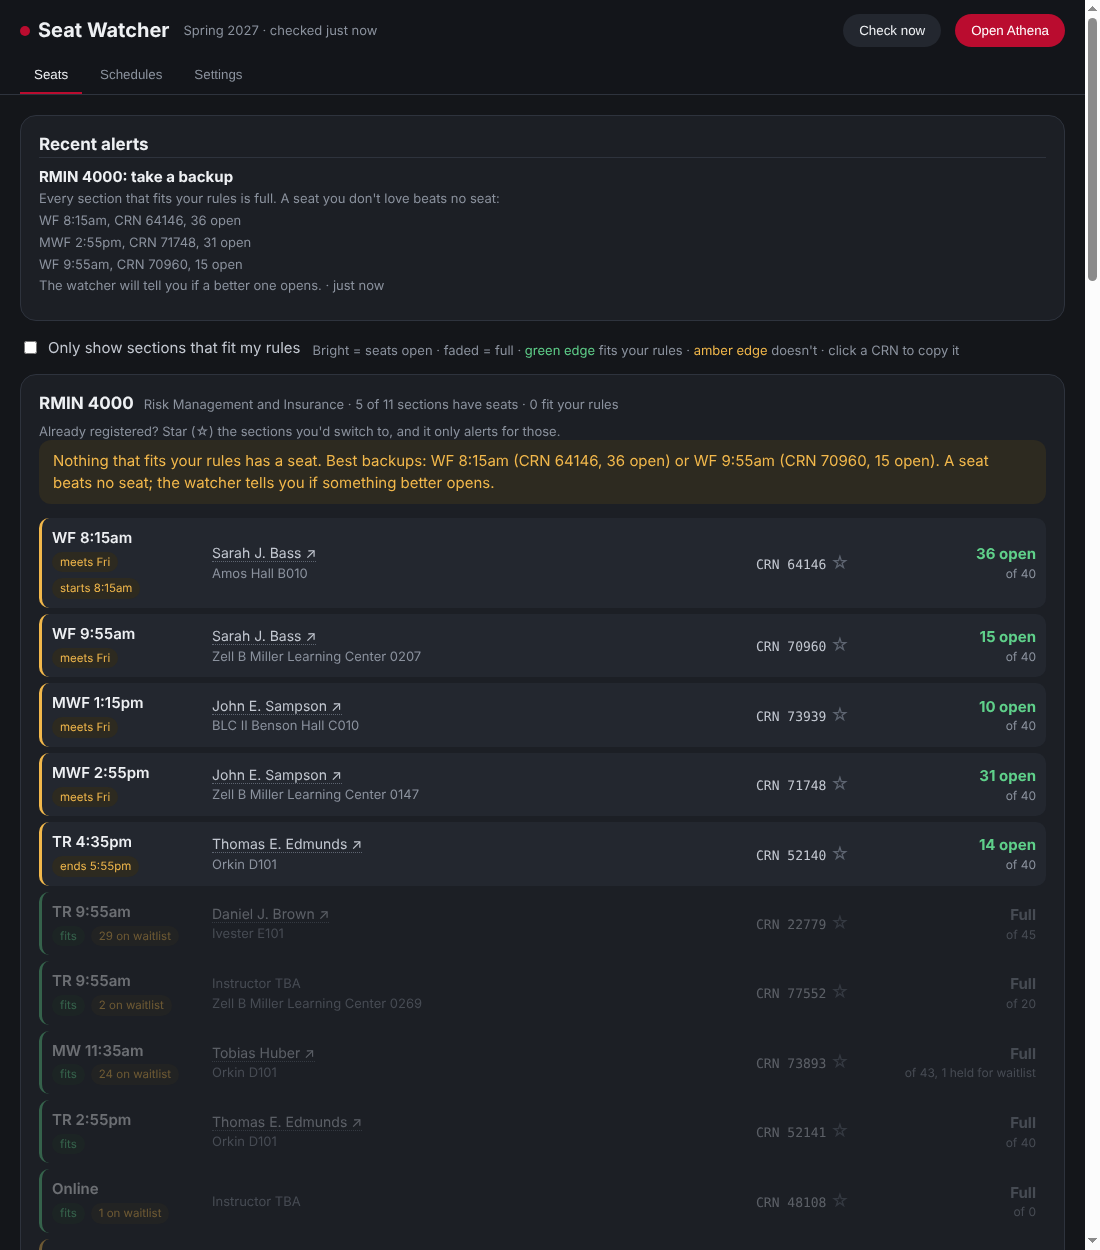
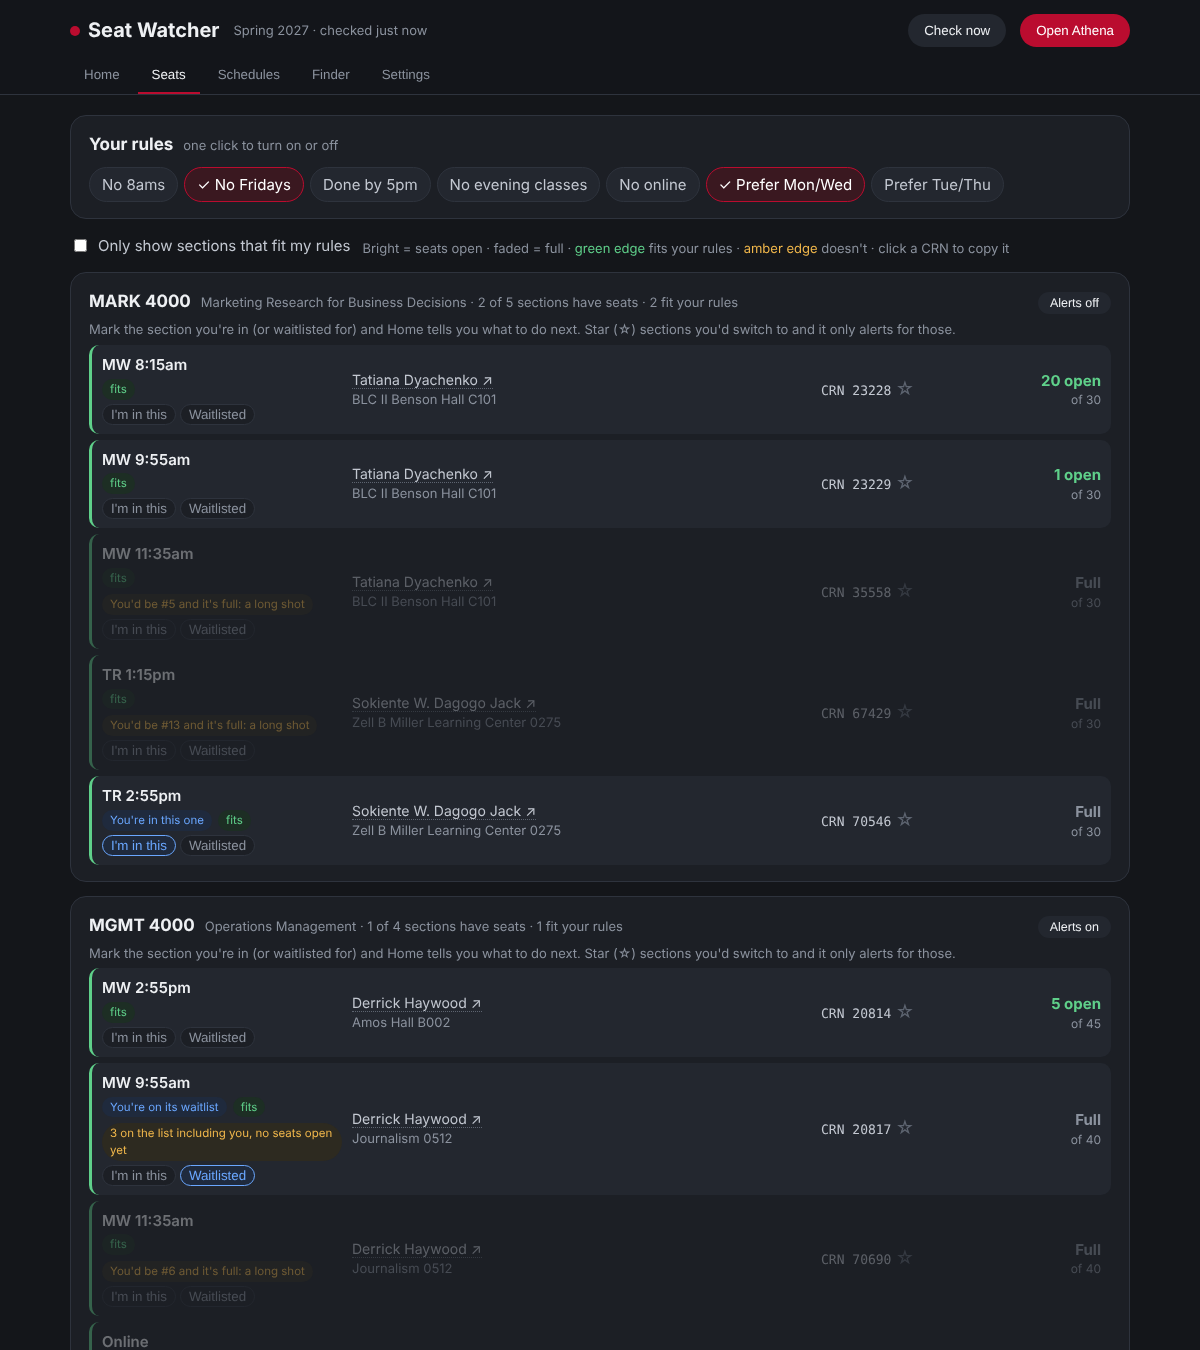
Docs and screenshots for Home, Finder, the extension and MCP; long shots rank last
Claude-Session: https://claude.ai/code/session_015J5cNBhjYe8LtE2kW4Kppf

diff --git a/extension/content.js b/extension/content.js
@@ -209,7 +209,7 @@
         const risk = s && (s.waiting > 0 || s.seats <= 0);
         box.append(
           risk
-            ? `${s.waiting ? `${s.waiting} people are waiting for it, so your seat goes to them` : "It's full, so your seat goes to whoever grabs it"} and you likely can't get back in. To switch sections, add the new CRN first and drop this one in the same submit.`
+            ? `${s.waiting ? `${s.waiting} ${s.waiting === 1 ? 'person is' : 'people are'} waiting for it, so your seat goes to them` : "It's full, so your seat goes to whoever grabs it"} and you likely can't get back in. To switch sections, add the new CRN first and drop this one in the same submit.`
             : 'To switch sections, add the new CRN first and drop this one in the same submit, so you never end up with neither.',
         );
       }

diff --git a/web/index.html b/web/index.html
@@ -99,6 +99,7 @@ input[type=text],input[type=number],select{background:var(--panel2);color:var(--
 .move{background:var(--panel2);border-radius:12px;padding:12px 14px;margin-top:10px;border-left:3px solid var(--blue)}
 .move.k0{border-left-color:var(--green)}.move.k2{border-left-color:var(--faint)}
 .move b{display:block;font-size:15px}
+.move .btn.alt{background:var(--panel);border:1px solid var(--line)}
 .move p{margin:4px 0 0;color:var(--soft);font-size:14px}
 .move ol{margin:8px 0 0;padding-left:20px;color:var(--soft);font-size:13.5px}
 .move ol li{margin:2px 0}

diff --git a/README.md b/README.md
@@ -1,15 +1,25 @@
 # UGA Seat Watcher
 
-Tells you when a seat opens in a UGA class that fits your schedule, and builds possible weekly
-schedules out of what's open right now. Runs on your own laptop, Windows or Mac.
+Tells you what to do next in UGA registration: when a seat opens in a class that fits your week,
+which waitlist you'd actually get off of, and how to switch sections without losing your seat.
+Builds possible weekly schedules from what's open, and finds open electives. Runs on your own
+laptop, Windows or Mac.
 
-![Seats tab](docs/seats.png)
+![Home tab](docs/home.png)
 
 - **No UGA login, no Duo.** It reads Athena's public "Browse Classes" search, the same one anyone
   can use without signing in.
+- **Your week and your next move.** Mark the section you're in (or waitlisted for) and Home shows
+  your week and exactly what to do, step by step in Athena's words: register now, switch sections
+  in one submit, move your waitlist spot, or hold.
+- **Waitlist odds.** "You'd be #17 for 17 seats: likely" vs "#55 for 1 seat: a long shot". You can
+  only be on one waitlist per course, so it helps you pick the line.
+- **Never lose a seat by accident.** It never tells you to drop first, and the Chrome extension
+  warns you in Athena if you're about to drop a class with people waiting for your seat.
 - **Only real seats count.** While anyone is on a section's waitlist, Athena holds every open seat
   for them, so a section only counts as open when nobody is waiting.
-- **Your rules.** Earliest start, latest end, days to skip, days you prefer, online or not.
+- **Your rules, one click each.** No 8ams, No Fridays, Done by 5pm, Prefer Mon/Wed and more. None
+  are on until you pick them, and one click turns each off again.
 - **Backups.** A seat you don't love beats no seat. If everything that fits is full, it tells you
   which sections still have room.
 - **Switch mode.** Already registered? Star the sections you'd rather have and it only alerts for
@@ -17,7 +27,14 @@ schedules out of what's open right now. Runs on your own laptop, Windows or Mac.
 - **Schedules.** Every combination of open sections with no time clashes, ranked by fewest days on
   campus, no early mornings, no late classes and no long gaps. One click copies the CRNs.
 - **Alerts** on your desktop, and on your phone through the free ntfy app or Discord.
+- **Finder.** Search every section this term for an open class that fits around your week: level,
+  online or in person, days, times, subjects to leave out. Good for electives.
+- **Seat history.** When a full section reopens, it shows when.
+- **Key dates.** A countdown to waitlists clearing and drop/add.
+- **Tight walks.** Flags back-to-back classes on opposite sides of campus.
 - **Rate My Professors** link on every instructor's name.
+- **Chrome extension and Claude.** Optional: color Athena's own pages, and ask Claude about your
+  schedule. See below.
 
 It never registers you for anything. It tells you, and you register in Athena yourself.
 
@@ -35,8 +52,12 @@ It never registers you for anything. It tells you, and you register in Athena yo
    - **Windows:** `Start Here (Windows).cmd`. If Windows warns you, click "More info" then
      "Run anyway".
    - **Mac:** right-click `Start Here (Mac).command`, choose Open, then Open again.
-4. **Setup opens in your browser.** Pick the term, add your courses, set your rules and turn on
-   phone alerts if you want them. Leave "run in the background" checked.
+4. **Setup opens in your browser.** Pick the term, add your courses (by course code, like
+   BUSN 4000, straight off your advising sheet), pick any rules you care about, and turn on phone
+   alerts if you want them. Leave "run in the background" checked.
+5. **Tell it what you have.** On the Seats tab, tap **I'm in this** on each section you're
+   registered in, or **Waitlisted** on the one you're waiting for. (The Chrome extension can do this
+   for you from Athena.) Now Home can plan around your real week.
 
 ![Setup](docs/setup.png)
 
@@ -45,16 +66,56 @@ launcher again any time to open it. On Windows it's also in the Start menu as "S
 
 ## Using it
 
-- **Seats:** every section of your courses. Bright means seats are open, faded means full. A green
-  edge means it fits your rules; an amber edge says why it doesn't ("meets Fri", "starts 8:15am").
-  Click a CRN to copy it, click an instructor for Rate My Professors, and star (☆) a section to
-  switch that course to "only tell me about these."
-- **Schedules:** possible weeks built from open seats. Uncheck "only sections that fit my rules" to
-  see weeks that use backups.
-- **Settings:** change anything from setup. Saved changes apply right away. To start setup over,
-  delete `config.json` and run the launcher again.
+- **Home:** your week (dashed means waitlisted), what to do next with the exact Athena steps, key
+  dates, and your rules as one-click chips.
+- **Seats:** every section of your courses. Bright means you can register now, faded means full. A
+  green edge means it fits your rules; an amber edge says why it doesn't ("meets Fri", "starts
+  8:15am"). Each section shows your waitlist odds and, if it was full and reopened, when. Mark your
+  own sections here. Star (☆) a section to switch that course to "only tell me about these". Turn a
+  course's alerts off when you're happy with it; it keeps checking so your week stays current.
+- **Schedules:** possible weeks built from open seats plus the sections you hold, with how many
+  changes each one takes from your week.
+- **Finder:** any open class that fits around your week. Your degree decides what counts, and you
+  should check prerequisites in the UGA Bulletin before registering.
+- **Settings:** change anything from setup. To start setup over, delete `config.json` and run the
+  launcher again.
+
+**Switching sections, the safe way:** add the new CRN and drop the old one in the same submit. If
+the old section has people waiting and you drop it first, your seat goes to them and you can't get
+back in. Seat Watcher's steps always do it the safe way.
+
+![Seats tab](docs/seats.png)
 
 ![Schedules tab](docs/schedules.png)
+
+![Finder tab](docs/finder.png)
+
+## Chrome extension (optional)
+
+Works on Athena's Register for Classes page while Seat Watcher runs: colors search results (fits,
+waitlist only with your odds, full, yours), syncs your Registered and Waitlisted classes into Seat
+Watcher, warns before a risky drop, and can put your next CRN in the Enter CRNs box. It never
+clicks Submit and never sees your password.
+
+![Extension on a copy of Athena's page](docs/extension.png)
+
+*Shown on a test copy of Athena's page, which is why Athena's own styling is missing.*
+
+Install: in Chrome go to `chrome://extensions`, turn on **Developer mode**, click **Load unpacked**,
+and pick the `extension` folder. Details in [extension/README.md](extension/README.md).
+
+## Ask Claude about your schedule (optional)
+
+`mcp.mjs` connects Seat Watcher to Claude through MCP (the connector format Claude uses for tools),
+so you can ask things like "what should I do about RMIN?" or "find me an open online upper-level
+class that fits my week". It talks to the Seat Watcher running on your computer and never registers
+anything.
+
+- **Claude Code:** `claude mcp add uga-seat-watcher -- node "/full/path/to/uga-seat-watcher/mcp.mjs"`
+- **Claude Desktop:** Settings > Developer > Edit Config, and add inside `"mcpServers"`:
+  `"uga-seat-watcher": { "command": "node", "args": ["/full/path/to/uga-seat-watcher/mcp.mjs"] }`,
+  then restart Claude Desktop. On Windows, write the path with double backslashes
+  (`C:\\Users\\you\\uga-seat-watcher\\mcp.mjs`).
 
 ## Phone alerts
 
@@ -95,6 +156,9 @@ knowing the project. `AGENTS.md` points other agents to the same file.
 | No desktop alerts on Mac | System Settings > Notifications > Script Editor > Allow. |
 | Stops working after a Mac restart | The folder is in Desktop, Documents or Downloads. Move it to your home folder and run the launcher again. |
 | Says a section is full but Athena shows seats | Someone is on the waitlist, so Athena holds every open seat for the waitlist. Join it, or wait for it to clear. |
+| Home says "Mark the sections you have" | Tap **I'm in this** or **Waitlisted** on the Seats tab, or open your Summary in Athena with the extension installed. |
+| The extension panel says "not running" | Start Seat Watcher with the launcher. If you changed its port, set the same port in the extension's popup. |
+| Finder says it's downloading | The first search of the day pulls the whole term from Athena, slowly on purpose. Give it about a minute. |
 | Nothing at all | Check the log: `%LOCALAPPDATA%\uga-seat-watcher\watcher.log` on Windows, `~/Library/Application Support/uga-seat-watcher/watcher.log` on Mac. |
 
 ## Commands
@@ -109,12 +173,14 @@ Run these from the project folder.
 | `node watcher.mjs --test` | Send a test alert |
 | `node watcher.mjs --install` | Start automatically at login |
 | `node watcher.mjs --uninstall` | Stop starting at login, and stop it now |
-| `npm test` | Offline tests for the rules and schedule builder |
+| `node mcp.mjs` | The MCP server for Claude (Claude starts this for you) |
+| `npm test` | Offline tests: rules, schedules, advice, finder |
 
 ## Be nice to Athena
 
 One search per course every few minutes is nothing. Please don't set it below 2 minutes, and don't
-run several copies. If a lot of people hammer Athena, UGA will block it for everyone.
+run several copies. The Finder downloads the whole term at most once every 6 hours, only when you
+use it. If a lot of people hammer Athena, UGA will block it for everyone.
 
 ## Other schools
 

diff --git a/CLAUDE.md b/CLAUDE.md
@@ -11,7 +11,12 @@ before you say something works.
   install it by unzipping a folder. Don't add packages unless there's truly no other way, and ask
   first.
 - One process does everything: checks Athena every few minutes, keeps a little state, sends alerts,
-  and serves a dashboard on `http://127.0.0.1:4830` (only this computer can open it).
+  and serves a dashboard on `http://127.0.0.1:4830` (only this computer can open it). The MCP server
+  (`mcp.mjs`) and the Chrome extension (`extension/`) are thin clients of that dashboard's JSON API;
+  they never talk to Athena themselves.
+- Each course in `config.json` can hold `registered` and `waitlisted` CRNs (the student's own
+  sections). `enabled` means **alerts on**. Courses with a held section are checked even with alerts
+  off, so the week on Home stays current.
 - Setup happens in that dashboard the first time (no `config.json` yet). Settings are saved to
   `config.json` in this folder and re-read on every check.
 - It never logs in to Athena and never registers anyone for anything. That's a hard line; see
@@ -22,15 +27,21 @@ before you say something works.
 | File | What it does |
 |---|---|
 | `watcher.mjs` | Entry point and command line (`--open`, `--once`, `find`, `--test`, `--install`, `--uninstall`). Starts the dashboard and the check loop, and hands off to the background service after setup. |
-| `src/athena.mjs` | Talks to Athena's public Browse Classes search. Turns Athena's JSON into our section shape (`toSection`). |
+| `src/athena.mjs` | Talks to Athena's public Browse Classes search. Turns Athena's JSON into our section shape (`toSection`), un-escaping Athena's HTML entities. |
+| `src/advice.mjs` | Your week and next moves (`advise`), waitlist odds (`waitlistOdds`). The UGA registration rules live in its header comment. |
+| `src/finder.mjs` | The elective finder: whole-term cache (`loadTerm`, at most every 6 hours, only on demand) and filters (`find`). |
+| `src/campus.mjs` | Rough walking times between campus zones, for tight-walk warnings. Unknown buildings never warn. |
+| `src/dates.mjs` | Key registration dates per term (waitlist purge, drop/add). Add each new term here. |
+| `mcp.mjs` | MCP server (stdio, hand-rolled JSON-RPC) for Claude: my_week, course_sections, find_classes, possible_schedules, set_my_section, seat_history. Calls the dashboard API. |
+| `extension/` | Chrome extension (MV3): colors Athena results, syncs the Summary panel to `/api/import`, warns before risky drops, fills CRNs. Reads tables by header text. Never clicks Submit. |
 | `src/rules.mjs` | Does a section fit the person's rules (`check`, returns `{ fits, why }`), time formatting, and backup alerts (`backupNotice`). |
 | `src/schedule.mjs` | Builds clash-free weekly schedules from open sections and ranks them (`buildSchedules`, `score`). |
 | `src/core.mjs` | One check: fetch every course, mark fits, compare with the last check, alert. Holds the live `status` the dashboard reads. |
-| `src/server.mjs` | The dashboard's HTTP server and JSON API (`/api/state`, `/api/schedules`, `/api/config`, `/api/setup`, `/api/course`, `/api/terms`, `/api/check`, `/api/test-alert`). |
+| `src/server.mjs` | The dashboard's HTTP server and JSON API (`/api/state`, `/api/week`, `/api/schedules`, `/api/lookup`, `/api/held`, `/api/import`, `/api/finder`, `/api/history`, `/api/config`, `/api/setup`, `/api/course`, `/api/terms`, `/api/check`, `/api/test-alert`). Rejects requests whose Origin is another website. |
 | `src/notify.mjs` | Alerts: Windows toast (PowerShell), Mac notification (osascript), Linux notify-send, ntfy, Discord webhook. |
 | `src/service.mjs` | Start at login: Windows Task Scheduler task "UGA Seat Watcher" (runs `scripts/run-windows.ps1`), Mac launchd agent `com.ugaseatwatcher.agent`. |
 | `src/config.mjs` | Defaults, `validate` (every saved config goes through it), load and save. |
-| `src/paths.mjs` | Where the log and state live (`%LOCALAPPDATA%\uga-seat-watcher` or `~/Library/Application Support/uga-seat-watcher`), plus `log`. |
+| `src/paths.mjs` | Where the log, state, seat history (`history.jsonl`) and term cache live (`%LOCALAPPDATA%\uga-seat-watcher` or `~/Library/Application Support/uga-seat-watcher`), plus `log`. |
 | `web/index.html` | The whole dashboard and setup wizard: one file, vanilla JS, no framework. |
 | `test/` | Offline tests (`npm test`). They never touch the network. |
 
@@ -39,10 +50,11 @@ before you say something works.
 Everything downstream uses what `toSection` returns:
 
 ```js
-{ crn: '73893', course: 'RMIN 4000', title, credits,
+{ crn: '73893', course: 'RMIN 4000', title, credits, subject, number, campus, part_of_term,
   meetings: [{ days: 'MW', begin: '1135', end: '1250', building, room }],
   days, begin, end,          // first meeting, for quick display
-  online,                    // no set time, or Athena says online
+  online,                    // no set time on the grid (online, or time TBA)
+  remote,                    // Athena actually says it's online (use this for "online classes")
   instructor,
   seats,                     // REAL open seats: 0 while anyone is waiting, else seatsAvailable
   raw_seats, waiting, max }
@@ -79,11 +91,24 @@ Days use Banner letters: M T W R(Thursday) F S U. Times are `'HHMM'` strings, co
    ("take a backup", "running low", "completely full").
 9. **In the dashboard, never return `false` from an `onkeydown` handler** for keys you don't handle.
    That cancels typing. (It shipped once.)
+10. **Athena sometimes answers a search with nothing** mid-session. A course that had sections
+    doesn't vanish between checks, so `runCheck` retries once on a fresh session and otherwise keeps
+    the last good data (`stale: true`). Never treat an empty answer as "full everywhere".
+11. **Switching sections is add-and-drop in one submit.** Advice must never tell someone to drop
+    first, and must say when the old section has people waiting (the seat goes to them). One
+    waitlist per course, and not while registered in another section of it. A waitlist seat means an
+    email and about 18 hours to register.
+12. **Rule presets start off.** No 8am, Friday or any other rule is on until the student picks it
+    (the setup wizard once defaulted to 9:00, which quietly hid every 8am).
+13. **The extension reads Athena's tables by column header text** (CRN, Status, Action, Details,
+    Subject, Course Number), because Athena's markup isn't documented. Test changes against a copy
+    of the page; it can't be tested against the real one without logging in.
 
 ## Commands
 
 ```
 npm test                          offline tests, run these after any change to src/
+node mcp.mjs                      the MCP server (Claude starts it; talks to the running app)
 node watcher.mjs --open           start, open the dashboard (setup first time)
 node watcher.mjs --once           one check, printed, no alerts
 node watcher.mjs find BUSN 4000   every section of a course
@@ -113,6 +138,13 @@ To try changes without touching the person's real setup, copy the folder somewhe
   `node watcher.mjs find SUBJ 1234` first.
 - **Dashboard look:** colors are CSS variables at the top of `web/index.html`. Bright rows are open,
   faded rows (`.row.full`) are full; only full sections should be faded.
+- **A new term:** add its dates to `src/dates.mjs` (from the registrar's calendar) so Home counts
+  down to them.
+- **A new advice case:** add it to `advise()` in `src/advice.mjs` with plain steps in Athena's own
+  words, and a test in `test/advice.test.mjs`. The dashboard, MCP server and extension all show
+  `moves` as they are, so there's nothing else to change.
+- **A new MCP tool:** add an entry to `TOOLS` in `mcp.mjs` that calls a dashboard endpoint. Keep the
+  answers small (see `slimSection`).
 
 ## Don'ts
 
